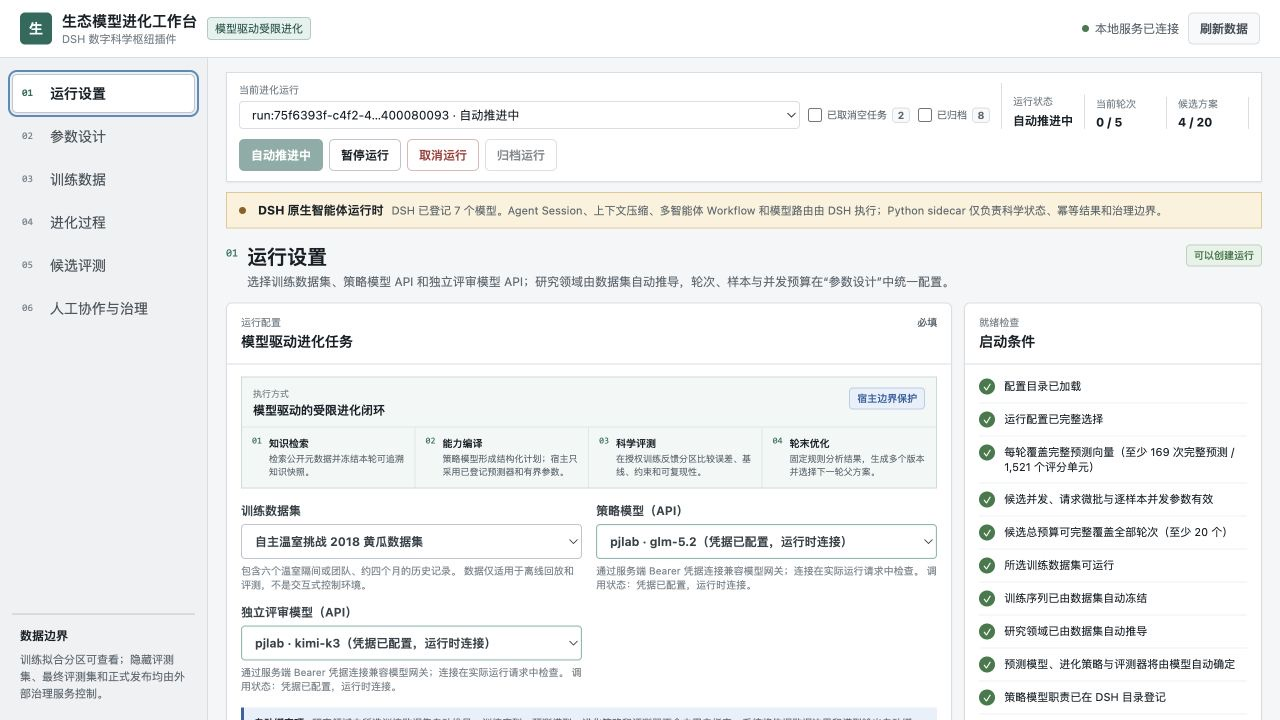
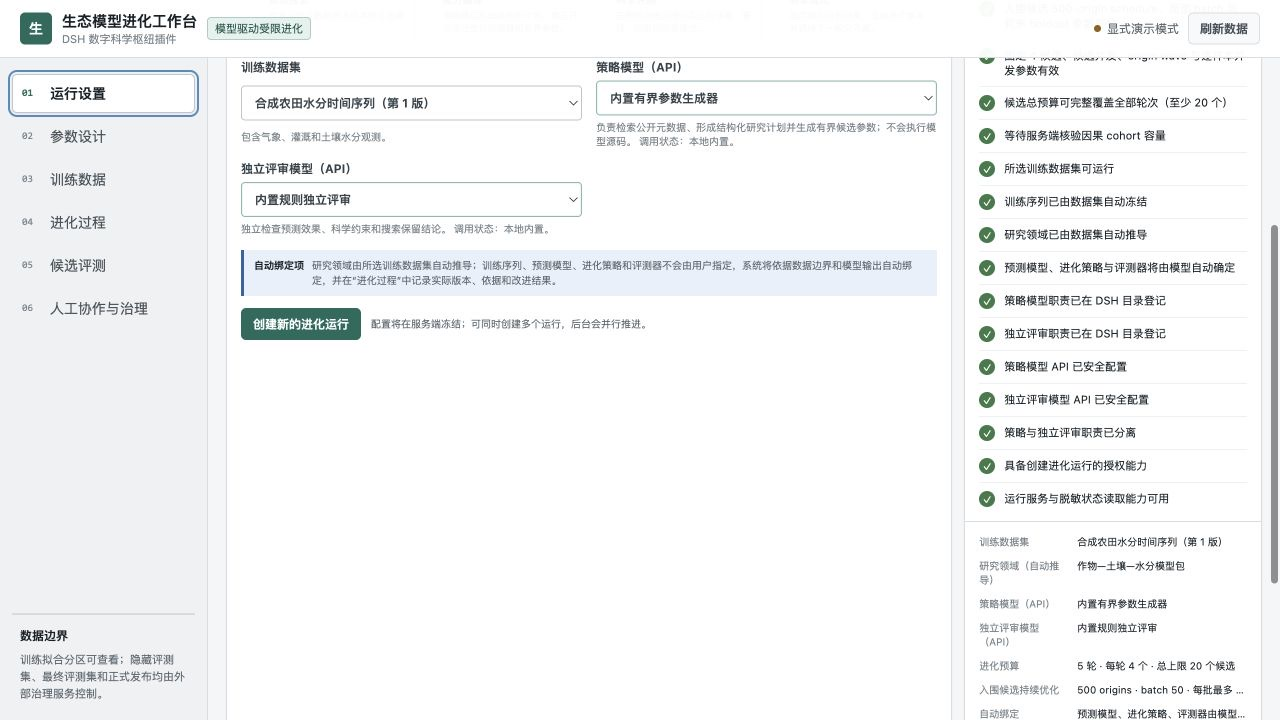
docs: refresh README and 0.3.46 screenshots

diff --git a/plugins/ecology_evolution/assets/js/demo.js b/plugins/ecology_evolution/assets/js/demo.js
@@ -28,10 +28,14 @@
     };
   });
   var demoRun = normalizeRun({
-    id: "运行-演示-001", status: "running", generation: 3, total_generations: 6, candidates_count: 5, max_candidates: 12,
+    id: "运行-演示-001", status: "running", generation: 3, total_generations: 5, candidates_count: 5, max_candidates: 20,
     projection_revision: 18, created_at: "2026-08-16T08:20:00Z", updated_at: "2026-08-16T08:36:00Z",
     manifest_digest: "sha256:demo-manifest-71c0", best_candidate_id: "候选-004",
-    execution_progress: { progress_percent: 58, completed_rounds: 3, total_rounds: 6, current_stage: "evaluation", active_candidate_id: "候选-005", status: "running" },
+    candidates_per_generation: 4, candidate_concurrency: 4, sample_agent_batch_size: 64, sample_concurrency: 64,
+    optimization_protocol: "top2_adaptive_epoch@1",
+    optimization_schedule: { screening_origin_count: 64, formal_origin_count_per_finalist: 500, local_batch_origin_count: 50, max_local_edits_per_batch: 2, selection_holdout_origin_count: 169 },
+    dsh_runtime: { native: true },
+    execution_progress: { progress_percent: 58, overall_progress_percent: 58, epoch_progress_percent: 58, completed_rounds: 3, total_rounds: 5, current_stage: "evaluation", active_candidate_id: "候选-005", status: "running" },
     execution_diagnostics: { execution_mode: "registered_lightweight", fit_method: "bias_fit", training_partition_rows: 144, training_eligible_examples: 144, training_used_examples: 144, training_skipped_examples: 0, evaluation_partition_rows: 48, evaluation_eligible_examples: 48, evaluation_used_examples: 48, evaluation_skipped_examples: 0, candidate_artifacts_count: 4, candidate_evaluations_count: 4, candidate_work_items: 192, fit_passes_completed: 4, fit_passes_per_candidate: 1, iterative_epoch_training: false, proposal_sources: { remote_model: 4, host_fallback: 1 }, remote_strategy_calls: 5, remote_strategy_successes: 4, remote_strategy_status: "partial_host_fallback", fallback_used: true, fallback_count: 1 },
     configuration: { domain_pack_id: "crop_soil_water", research_domain_id: "crop_soil_water", autonomous_mode: "model_led_research", model_workflow: "research_compile_evolve@1", dataset_id: "generated-toy-series@1", episode_id: "generated-toy-series@1:seed-0", prediction_model_id: "toy-rolling-water@1", strategy_id: "parameter_sweep@1", evaluator_id: "toy_time_forward@1", policy_model_id: "host_parameter_generator@1", judge_model_id: "rule_judge@1", slot: "bounded_predictor" },
     dataset: { id: "generated-toy-series@1", episode_id: "generated-toy-series@1:seed-0", partition: "training_fit", digest: "sha256:demo-dataset-8b42" },
